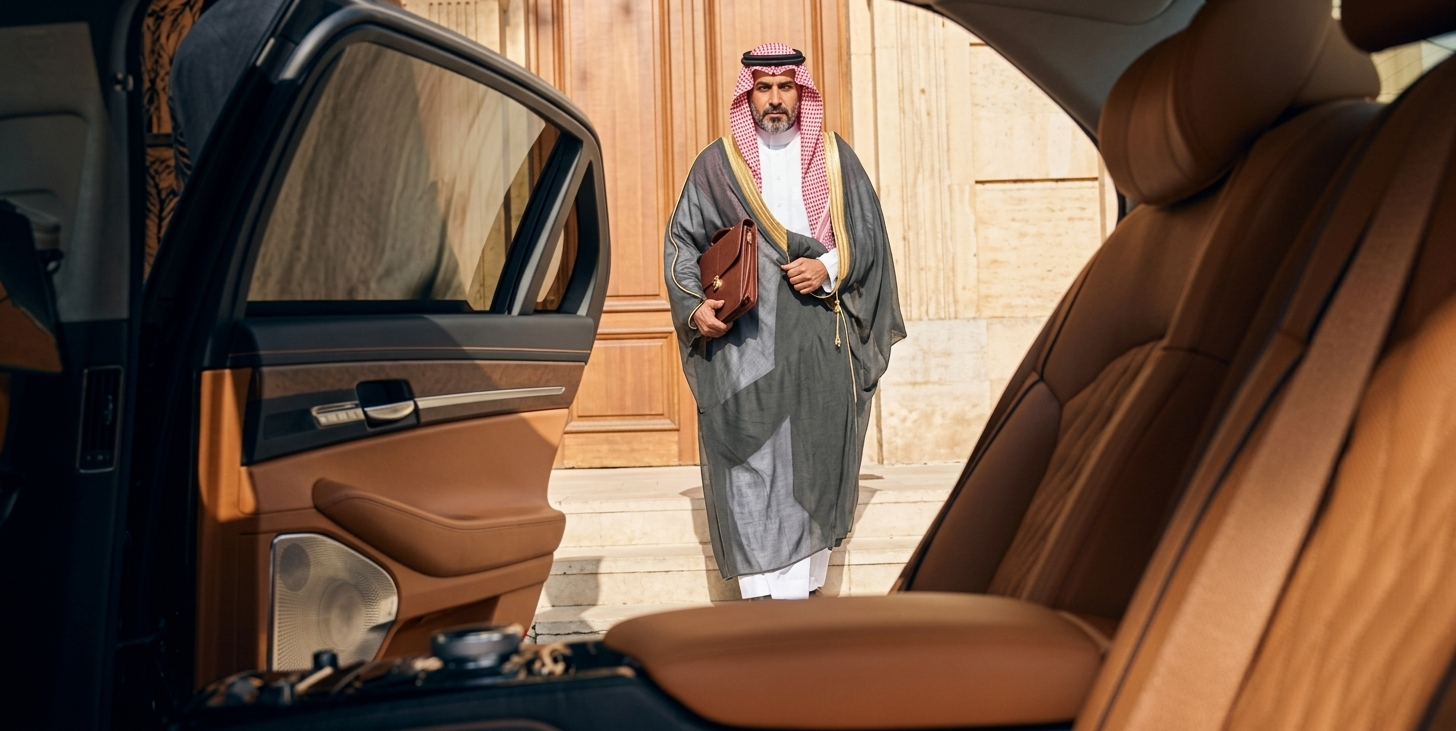
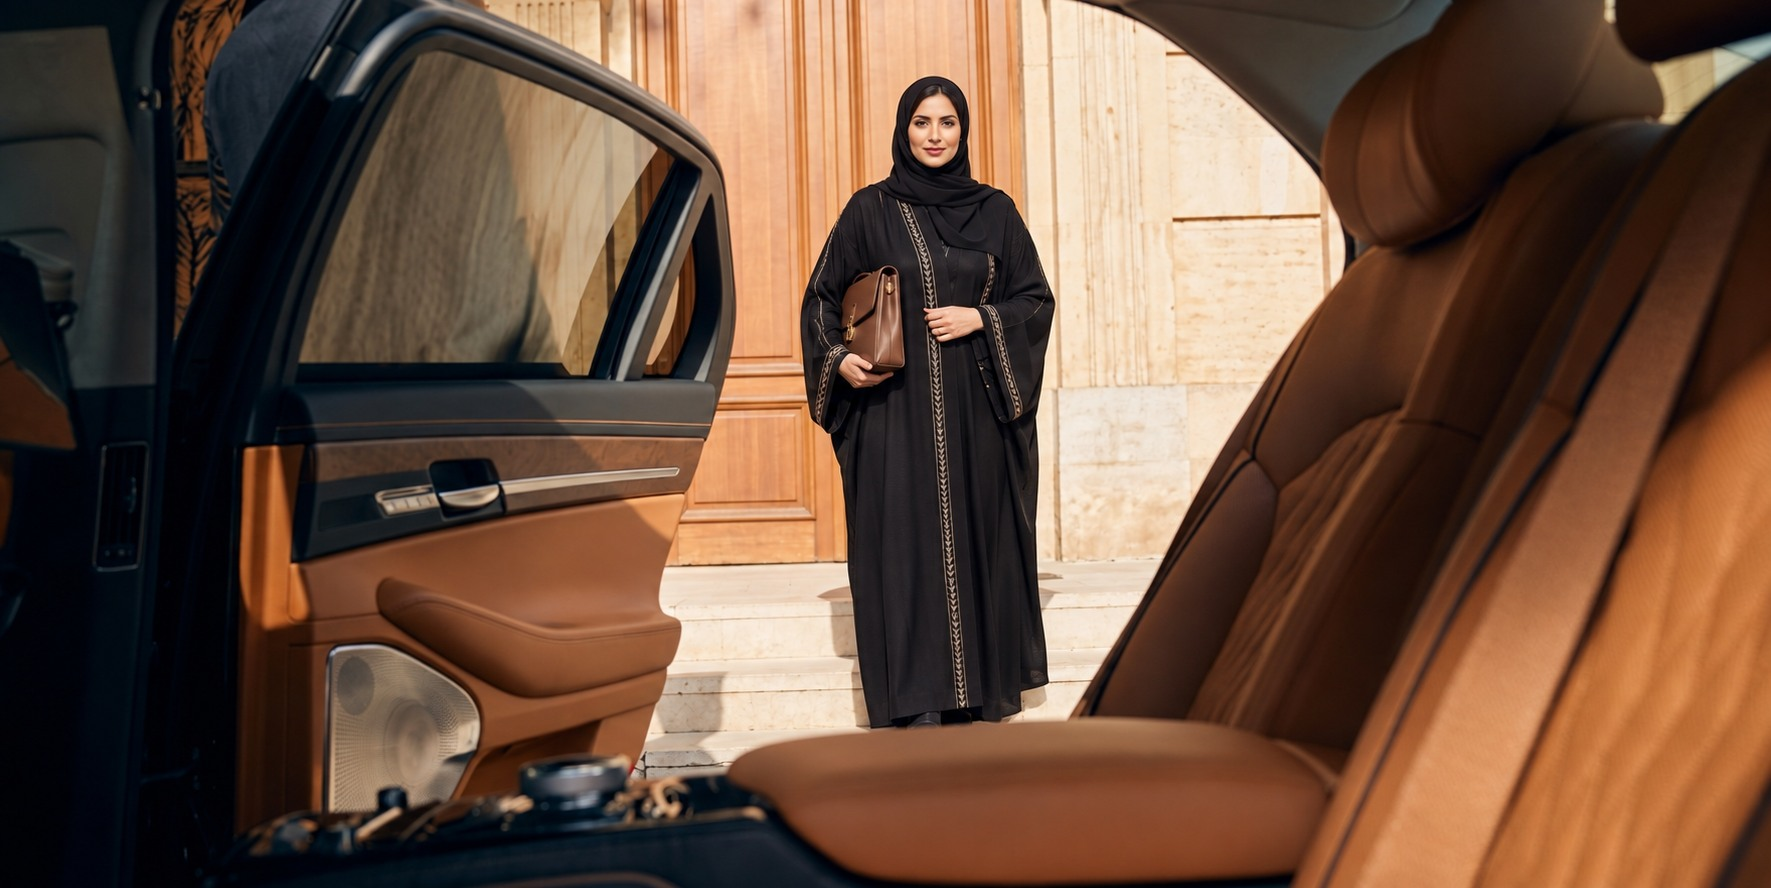
Some changes live

diff --git a/app/journeys/JourneysPageContent.tsx b/app/journeys/JourneysPageContent.tsx
@@ -207,7 +207,7 @@ const TAB_STATUS: Record<'upcoming' | 'past' | 'canceled', string> = {
 const TABS: { key: 'upcoming' | 'past' | 'canceled'; en: string; ar: string }[] = [
   { key: 'upcoming', en: 'Upcoming', ar: 'القادمة' },
   { key: 'past',     en: 'Past',     ar: 'السابقة' },
-  { key: 'canceled', en: 'Canceled', ar: 'الملغاة'  },
+  { key: 'canceled', en: 'Cancelled', ar: 'الملغاة'  },
 ]
 
 type Tab = 'upcoming' | 'past' | 'canceled'
